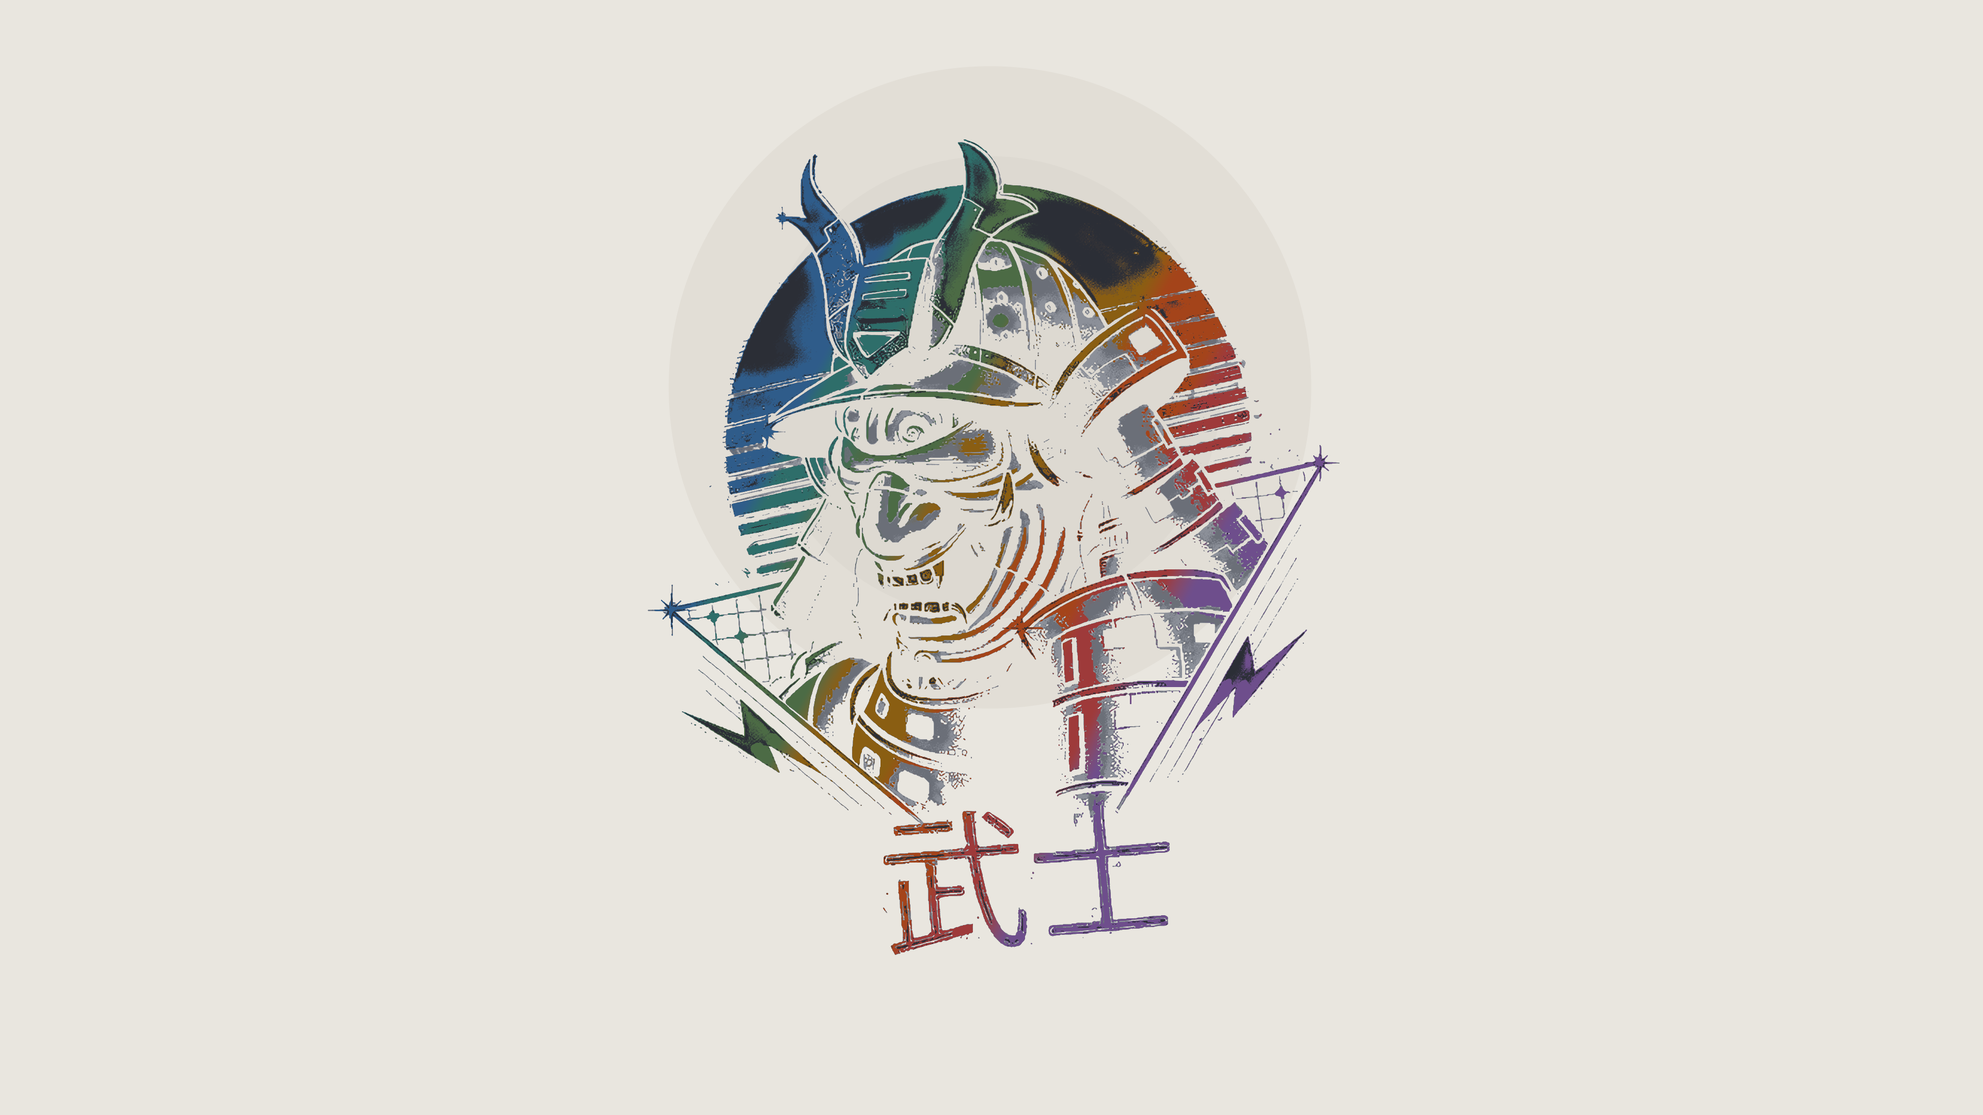
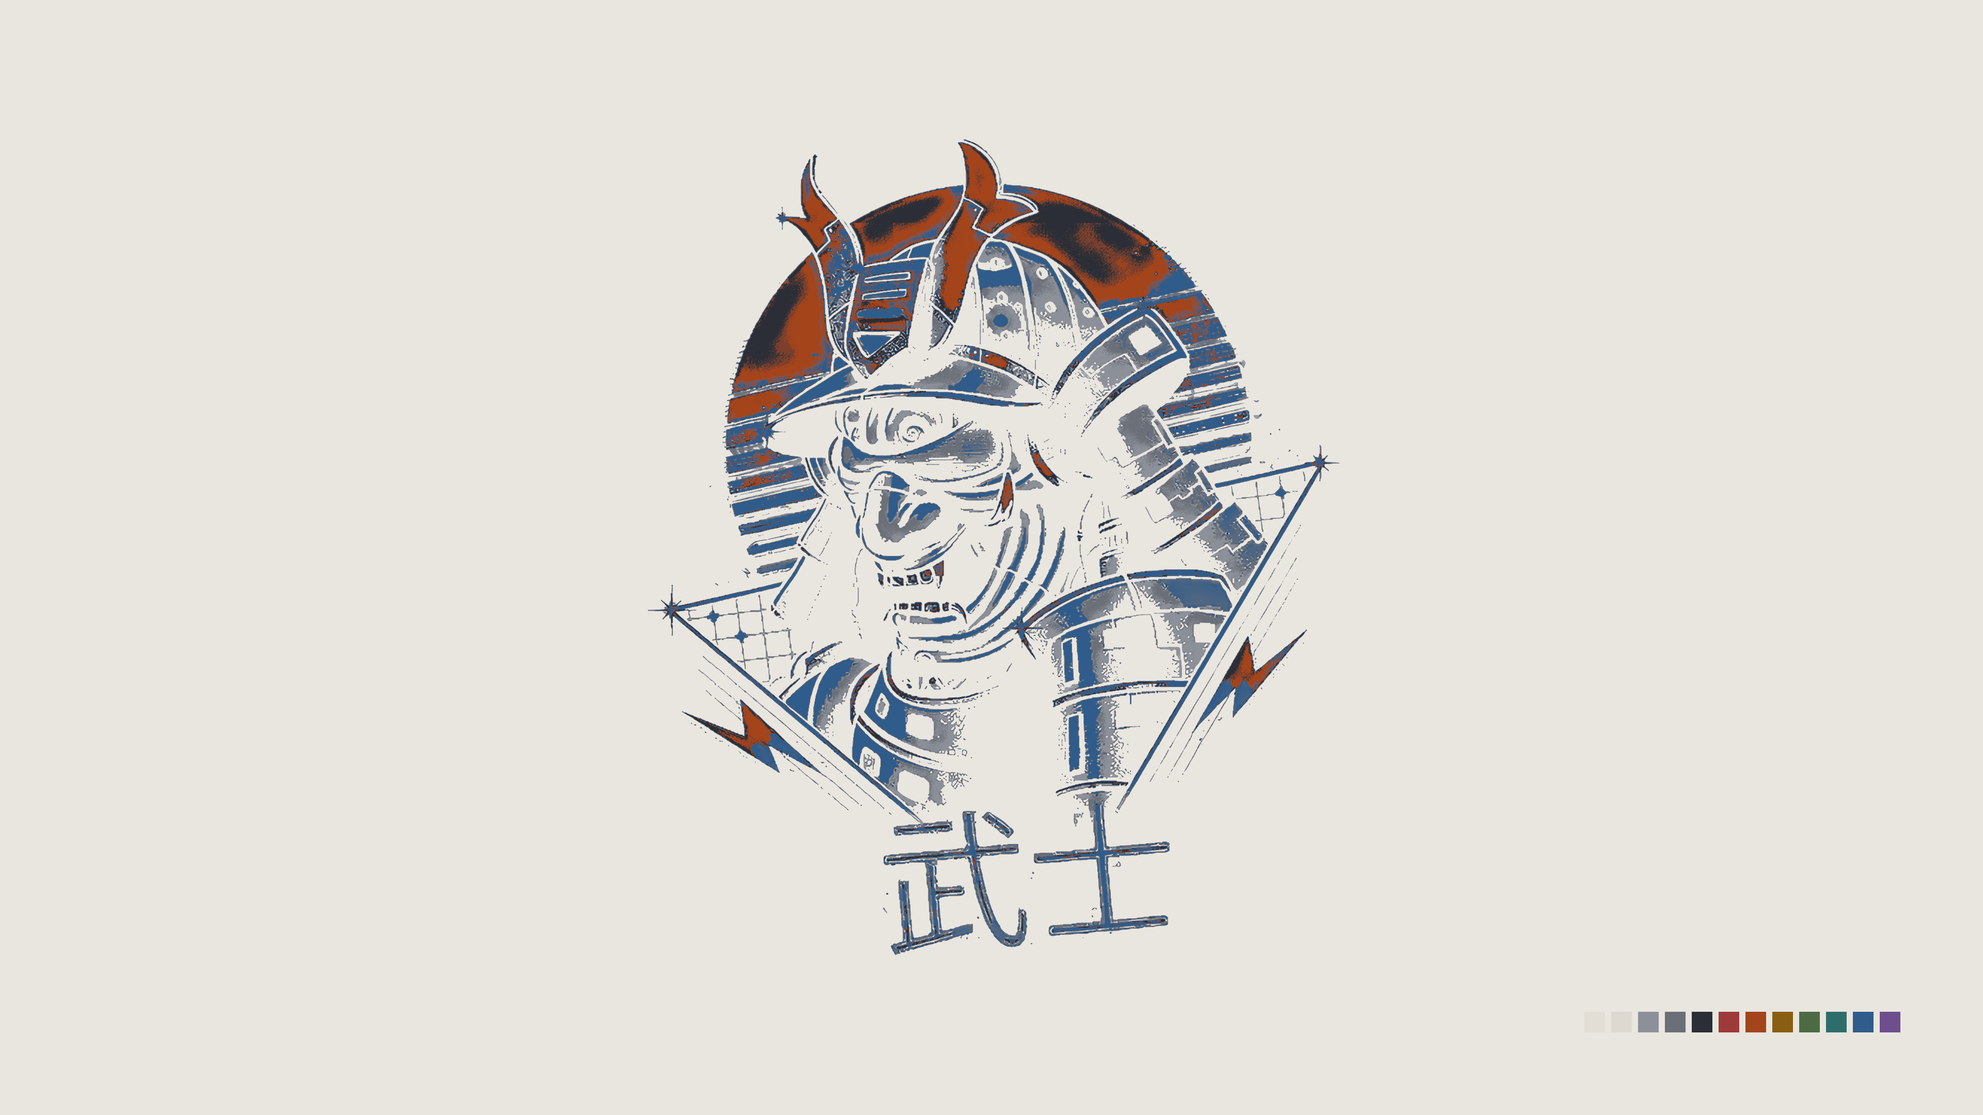
backgrounds: blue-black recolour and five Catppuccin Mocha picks
The swept seven-colour recolour read as a rainbow. The five subjects now
keep the palette's own shape: blue-black paper, comment and muted
shadows, a slate blue body, ember only on the brightest strokes, text on
the strongest lines. A small swatch strip in the bottom right carries
whatever the picture does not use, so every wallpaper still holds all
13 palette colours as exact hex.

Five more wallpapers are the pick of atraxsrc/catppuccin-mocha-walls
(minimalist-black-hole, black-hole, yohoho, puffy-stars, lit-up-sky),
chosen for being mostly night with a small glow. scripts/mocha.py moves
each Mocha colour onto its role here in OKLab, every warm one onto the
ember family so a sunset stays one glow; the day half turns the
neutrals over so the night sky becomes the stone window.

Claude-Session: https://claude.ai/code/session_01PiNkwWbMkiGMkdhnqFjUyB

Changed region(s): [[0.3438, 0.1241, 0.6875, 0.8685], [0.8125, 0.8995, 0.9688, 0.9306], [0.3438, 0.5273, 0.375, 0.5894]]

diff --git a/scripts/wallpaper.py b/scripts/wallpaper.py
@@ -1,30 +1,33 @@
 #!/usr/bin/env python3
-"""Recolour one wallpaper with every colour of the repo palette.
+"""Recolour one wallpaper with the repo palette, every colour included.
 
-    python3 scripts/wallpaper.py night GREY.png OUT.png
-    python3 scripts/wallpaper.py day   GREY.png OUT.png
-    python3 scripts/wallpaper.py night --v1 backgrounds/ember-eagle.png OUT.png
+    python3 scripts/wallpaper.py night [--accent NAME] GREY.png OUT.png
+    python3 scripts/wallpaper.py day   [--accent NAME] GREY.png OUT.png
+    python3 scripts/wallpaper.py night --v1 --accent Amber ember-eagle-v1.png OUT.png
 
 GREY is the cover-cropped grey render that scripts/wallpaper.sh prepares (light
 subject on dark for night, dark subject on light for day). --v1 instead reads
 a wallpaper made by the first, two-tone lookup and recovers its grey levels, so
 the shipped wallpapers can be redone without the cool-wallpapers sources.
 
-The palette is read from backgrounds/*.gpl. Each pixel gets an ink level, 0 on
-the paper and 1 on the strongest line, and runs along one ramp of roles:
+The palette is read from backgrounds/*.gpl. The subject stays calm, as the
+palette asks: neutrals for the big shapes, one supporting colour (--accent,
+slate blue unless named) for the body, and ember small and loud near the top.
+Each pixel gets an ink level, 0 on the paper and 1 on the strongest line, and
+its rank inside the subject runs it along one ramp:
 
-    ink  0.00-0.20  window, flat, so the paper lands exactly on the window
-         0.20-0.46  comment, then muted (shadows and fine lines)
-         0.46-0.80  one of the seven colours (ember, moss, amber, brick,
-                    slate blue, heather, verdigris), held flat
-         0.80-1.00  text (fog by night, ink by day) on the strongest lines
+    window   the paper, flat, so it lands exactly on the window colour
+    comment  faint shading
+    muted    shadows and fine lines
+    accent   the body of the subject
+    ember    the brightest (night) or boldest (day) strokes
+    text     the strongest lines
 
-Which of the seven a pixel takes depends on where it sits: the subject is
-swept on a diagonal and split into seven bands of equal ink, so each colour
-covers about a seventh of the subject. Behind the subject sits a stepped disc
-in pane and container, kept clear of the corners so they stay on the window.
+The colours the subject does not use sit in a small swatch strip in the
+bottom right, one square per palette colour, on a plate of window colour.
 Blends between roles are mixed in OKLab; every role holds a flat band, so
-each palette colour is present as its exact hex.
+each palette colour is present as its exact hex, and the corners stay on
+the window.
 """
 import glob
 import os
@@ -34,8 +37,7 @@ import numpy as np
 from PIL import Image
 
 W, H = 3840, 2160
-HUES = ["Slate blue", "Verdigris", "Moss", "Amber", "Ember", "Brick", "Heather"]
-SWEEP = np.deg2rad(28)  # top left to bottom right
+ACCENTS = ["Brick", "Ember", "Amber", "Moss", "Verdigris", "Slate blue", "Heather"]
 
 # The first lookup of scripts/wallpaper.sh, as (rows, from, to); used by --v1.
 V1 = {
@@ -123,19 +125,6 @@ def ink_from_v1(mode, path):
     return g if mode == "night" else 1 - g
 
 
-def densest(mask, step=16):
-    """Centroid of the mask weighted by the square of its local density (a box
-    a sixth of the height wide), so solid shapes count and thin lines barely do."""
-    h, w = H // step, W // step
-    small = mask[:h * step, :w * step].reshape(h, step, w, step).mean((1, 3))
-    k = H // 6 // step
-    c = np.pad(small, ((k // 2 + 1, k - k // 2), (k // 2 + 1, k - k // 2))).cumsum(0).cumsum(1)
-    box = (c[k:, k:] - c[:-k, k:] - c[k:, :-k] + c[:-k, :-k])[:h, :w] / k ** 2
-    wt = small * box ** 2
-    yy, xx = np.mgrid[0:h, 0:w]
-    return ((xx * wt).sum() / wt.sum() + 0.5) * step, ((yy * wt).sum() / wt.sum() + 0.5) * step
-
-
 def rank(ink, subject):
     """Spread the subject's ink evenly over 0.2-1 by its own distribution (ties
     take their middle rank), so a faint render and a bold one both run the whole
@@ -146,66 +135,50 @@ def rank(ink, subject):
     return np.where(subject, 0.2 + 0.8 * mid[bins], ink).astype(np.float32)
 
 
-def render(mode, ink, pal):
-    lab = {k: to_lab(v) for k, v in pal.items()}
-    window = lab["Window"]
-    # outer disc is whichever of pane / container sits nearer the window
-    near, far = sorted(["Pane", "Container"], key=lambda k: abs(lab[k][0] - window[0]))
+def strip(img, pal, size=40, gap=12, pad=28, margin=160):
+    """One square per palette colour but the window, bottom right: neutrals from
+    the window out, then the colours round the wheel. Draws on img in place."""
+    window = pal["Window"]
+    neutrals = sorted(["Pane", "Container", "Comment", "Muted", "Text"],
+                      key=lambda k: np.abs(pal[k] - window).sum())
+    names = neutrals + ACCENTS
+    w = len(names) * size + (len(names) - 1) * gap
+    x0, y0 = W - margin - w, H - margin - size
+    img[y0 - pad:y0 + size + pad, x0 - pad:x0 + w + pad] = window
+    for n, k in enumerate(names):
+        x = x0 + n * (size + gap)
+        img[y0:y0 + size, x:x + size] = pal[k]
 
-    ys, xs = np.mgrid[0:H, 0:W].astype(np.float32)
+
+def render(mode, ink, pal, accent="Slate blue"):
+    lab = {k: to_lab(v) for k, v in pal.items()}
     subject = ink > 0.2
-    ink = rank(ink, subject)
     if not subject.any():
         sys.exit("nothing above the paper: is the mode right?")
+    ink = rank(ink, subject)
 
-    # stepped disc behind the subject: centred where the subject is densest
-    # (so thin lines trailing off do not pull it away), wide enough for most
-    # of it, its rim kept 120 px inside every edge where the room allows
-    cx, cy = densest(subject)
-    dist = np.hypot(xs - cx, ys - cy)
-    r = 1.15 * np.percentile(dist[subject], 70)
-    r = min(r, cx - 120, W - 120 - cx, cy - 120, H - 120 - cy, 0.46 * H)
-    r = max(r, 0.16 * H)
-    outer = np.clip(r - dist + 0.5, 0, 1)[..., None]
-    inner = np.clip(0.72 * r - dist + 0.5, 0, 1)[..., None]
-    base = window + (lab[near] - window) * outer
-    base = base + (lab[far] - base) * inner
-
-    # colour sweep: equal-ink bands of the seven colours along a diagonal
-    proj = xs * np.cos(SWEEP) + ys * np.sin(SWEEP)
-    hot = (ink > 0.48) & (ink < 0.84)
-    pts = proj[hot] if hot.sum() > 1000 else proj[subject]
-    q = np.quantile(pts, np.linspace(0, 1, 513))
-    q = np.maximum.accumulate(q + np.arange(513) * 1e-4)
-    t = np.interp(proj, q, np.linspace(0, 1, 513))
-    s = np.clip(t * len(HUES) - 0.5, 0, len(HUES) - 1)
-    i = np.minimum(s.astype(np.int32), len(HUES) - 2)
-    f = smooth((s - i - 0.3) / 0.4)[..., None]
-    hues = np.array([lab[k] for k in HUES])
-    hue = hues[i] + (hues[i + 1] - hues[i]) * f
-
-    keys = [(0.20, base), (0.26, lab["Comment"]), (0.31, lab["Comment"]),
-            (0.37, lab["Muted"]), (0.42, lab["Muted"]), (0.48, hue),
-            (0.84, hue), (0.92, lab["Text"])]
-    out = np.broadcast_to(base, (H, W, 3)).copy()
+    keys = [(0.20, "Window"), (0.28, "Comment"), (0.34, "Comment"),
+            (0.42, "Muted"), (0.50, "Muted"), (0.60, accent),
+            (0.76, accent), (0.82, "Ember"), (0.88, "Ember"), (0.95, "Text")]
+    out = np.broadcast_to(lab["Window"], (H, W, 3)).copy()
     for (a, ca), (b, cb) in zip(keys, keys[1:]):
         m = ink > a
         w = smooth((ink[m] - a) / (b - a))[:, None]
-        ca = ca[m] if np.ndim(ca) == 3 else ca
-        cb = cb[m] if np.ndim(cb) == 3 else cb
-        out[m] = ca + (cb - ca) * w
-    return from_lab(out.reshape(-1, 3)).reshape(H, W, 3)
+        out[m] = lab[ca] + (lab[cb] - lab[ca]) * w
+    img = from_lab(out.reshape(-1, 3)).reshape(H, W, 3)
+    strip(img, pal)
+    return img
 
 
-def check(img, pal, path):
+def check(img, pal, path, corners=True):
     flat = img.reshape(-1, 3)
     missing = []
     for k, v in pal.items():
         n = int(np.all(flat == v.astype(np.uint8), axis=1).sum())
         if n < 500:
             missing.append(f"{k} ({n} px)")
-    corners = [img[0, 0], img[0, -1], img[-1, 0], img[-1, -1]]
-    if any((c != pal["Window"]).any() for c in corners):
+    edge = [img[0, 0], img[0, -1], img[-1, 0], img[-1, -1]]
+    if corners and any((c != pal["Window"]).any() for c in edge):
         missing.append("window corners")
     if missing:
         sys.exit(f"{path}: short of " + ", ".join(missing))
@@ -214,13 +187,18 @@ def check(img, pal, path):
 def main(argv):
     v1 = "--v1" in argv
     argv = [a for a in argv if a != "--v1"]
-    if len(argv) != 3 or argv[0] not in ("night", "day"):
-        sys.exit(__doc__.split("\n\n")[1])
+    accent = "Slate blue"
+    if "--accent" in argv:
+        i = argv.index("--accent")
+        accent = argv[i + 1]
+        del argv[i:i + 2]
+    if len(argv) != 3 or argv[0] not in ("night", "day") or accent not in ACCENTS:
+        sys.exit(__doc__.split("\n\n")[1] + "\n\naccent: " + ", ".join(ACCENTS))
     mode, src, out = argv
     root = os.path.dirname(os.path.dirname(os.path.abspath(__file__)))
     pal = palette(root)
     ink = (ink_from_v1 if v1 else ink_from_grey)(mode, src)
-    img = render(mode, ink, pal)
+    img = render(mode, ink, pal, accent)
     check(img, pal, out)
     Image.fromarray(img).save(out, optimize=True)
     print(out)

diff --git a/scripts/mocha.py b/scripts/mocha.py
@@ -1,0 +1,114 @@
+#!/usr/bin/env python3
+"""Recolour a Catppuccin Mocha wallpaper into this repo's palette.
+
+    python3 scripts/mocha.py night SOURCE OUT.png
+    python3 scripts/mocha.py day   SOURCE OUT.png
+
+SOURCE is a wallpaper already drawn in Catppuccin Mocha, such as one from
+github.com/atraxsrc/catppuccin-mocha-walls. Each of the 26 Mocha colours has a
+role here, and every pixel moves by the inverse-distance blend (in OKLab) of
+the moves its nearest Mocha colours make, so texture and soft edges survive
+and a pixel sitting on a Mocha colour lands exactly on its role:
+
+    mantle, crust      window (the paper)
+    base, surface0     pane, container
+    surface1-text      comment, muted, text, with the steps between
+    maroon, peach      ember          flamingo, rosewater  ember toward text
+    red                brick          yellow       amber
+    green              moss           teal, sky    verdigris
+    blue, sapphire     slate blue     mauve, pink, lavender  heather
+
+The warm Mocha colours all go to the ember family, so a pink-to-yellow sunset
+stays one glow instead of breaking into bands. The pictures worth recolouring
+are the ones that are mostly night with a small glow: the blue-black does the
+work and ember stays small and loud, as the palette asks.
+
+night keeps Mocha's light order. day turns the neutrals over, so the dark
+paper becomes the stone window and the lightest strokes become ink, and the
+accents take Ember Day's darker values.
+
+The result is cover-cropped to 3840x2160 and gets the palette strip of
+scripts/wallpaper.py, so every palette colour is present as its exact hex.
+"""
+import os
+import sys
+
+import numpy as np
+from PIL import Image
+
+sys.path.insert(0, os.path.dirname(os.path.abspath(__file__)))
+from wallpaper import H, W, check, from_lab, palette, strip, to_lab  # noqa: E402
+
+MOCHA = {
+    "rosewater": "f5e0dc", "flamingo": "f2cdcd", "pink": "f5c2e7", "mauve": "cba6f7",
+    "red": "f38ba8", "maroon": "eba0ac", "peach": "fab387", "yellow": "f9e2af",
+    "green": "a6e3a1", "teal": "94e2d5", "sky": "89dceb", "sapphire": "74c7ec",
+    "blue": "89b4fa", "lavender": "b4befe", "text": "cdd6f4", "subtext1": "bac2de",
+    "subtext0": "a6adc8", "overlay2": "9399b2", "overlay1": "7f849c", "overlay0": "6c7086",
+    "surface2": "585b70", "surface1": "45475a", "surface0": "313244", "base": "1e1e2e",
+    "mantle": "181825", "crust": "11111b",
+}
+
+
+def roles(lab, mode):
+    """Target OKLab colour for each Mocha name: a palette role, or a step
+    between two roles written (a, b, t)."""
+    mix = lambda a, b, t: lab[a] + (lab[b] - lab[a]) * t  # noqa: E731
+    beyond = mix("Window", "Pane", -1.0)  # one step past the window, for crust
+    near, far = sorted(["Pane", "Container"], key=lambda k: abs(lab[k][0] - lab["Window"][0]))
+    return {
+        "crust": beyond, "mantle": lab["Window"], "base": lab[near], "surface0": lab[far],
+        "surface1": mix(far, "Comment", 0.5), "surface2": lab["Comment"],
+        "overlay0": mix("Comment", "Muted", 0.5), "overlay1": lab["Muted"],
+        "overlay2": mix("Muted", "Text", 0.25), "subtext0": mix("Muted", "Text", 0.5),
+        "subtext1": mix("Muted", "Text", 0.75), "text": lab["Text"],
+        "maroon": lab["Ember"], "peach": lab["Ember"], "red": lab["Brick"],
+        "yellow": lab["Amber"], "green": lab["Moss"], "teal": lab["Verdigris"],
+        "sky": lab["Verdigris"], "blue": lab["Slate blue"], "sapphire": lab["Slate blue"],
+        "mauve": lab["Heather"], "pink": lab["Heather"], "lavender": mix("Heather", "Text", 0.3),
+        "flamingo": mix("Ember", "Text", 0.35), "rosewater": mix("Ember", "Text", 0.65),
+    }
+
+
+def recolour(img, pal, mode, power=4.0):
+    lab = {k: to_lab(v) for k, v in pal.items()}
+    tgt = roles(lab, mode)
+    src = np.array([to_lab(np.array([int(h[i:i + 2], 16) for i in (0, 2, 4)], float)) for h in MOCHA.values()])
+    move = np.array([tgt[k] for k in MOCHA]) - src
+
+    flat = img.reshape(-1, 3)
+    keys = (flat[:, 0].astype(np.int32) << 16) | (flat[:, 1].astype(np.int32) << 8) | flat[:, 2]
+    uniq, inv = np.unique(keys, return_inverse=True)
+    ucol = np.stack([uniq >> 16, (uniq >> 8) & 255, uniq & 255], 1).astype(np.float64)
+    out = np.empty((len(ucol), 3))
+    for i in range(0, len(ucol), 200000):
+        c = to_lab(ucol[i:i + 200000])
+        d = np.sqrt(((c[:, None, :] - src[None]) ** 2).sum(-1))
+        w = 1 / (d ** power + 1e-12)
+        out[i:i + 200000] = c + (w[..., None] * move[None]).sum(1) / w.sum(1, keepdims=True)
+    return from_lab(out)[inv].reshape(img.shape)
+
+
+def cover(path):
+    im = Image.open(path).convert("RGB")
+    s = max(W / im.width, H / im.height)
+    im = im.resize((round(im.width * s), round(im.height * s)), Image.LANCZOS)
+    x, y = (im.width - W) // 2, (im.height - H) // 2
+    return np.asarray(im.crop((x, y, x + W, y + H)))
+
+
+def main(argv):
+    if len(argv) != 3 or argv[0] not in ("night", "day"):
+        sys.exit(__doc__.split("\n\n")[1])
+    mode, src, out = argv
+    root = os.path.dirname(os.path.dirname(os.path.abspath(__file__)))
+    pal = palette(root)
+    img = recolour(cover(src), pal, mode)
+    strip(img, pal)
+    check(img, pal, out, corners=False)  # a painting keeps its own edges
+    Image.fromarray(img).save(out, optimize=True)
+    print(out)
+
+
+if __name__ == "__main__":
+    main(sys.argv[1:])

diff --git a/README.md b/README.md
@@ -93,7 +93,8 @@ Window hint `#A4441A`. Ratios per role are in `docs/showcase.md`, or run
 │   ├── update_system.sh         # nala + flatpak, dark ANSI for a light terminal
 │   ├── contrast.py              # palette contrast table, feeds the README
 │   ├── wallpaper.sh             # renders a wallpaper from any source image
-│   └── wallpaper.py             # maps its grey onto all 13 palette colours
+│   ├── wallpaper.py             # maps its grey onto the palette
+│   └── mocha.py                 # recolours a Catppuccin Mocha wallpaper to the palette
 ├── zsh
 │   ├── emberday.zsh             # LS_COLORS, highlighting colours, aliases, starship
 │   └── install.sh
@@ -101,7 +102,7 @@ Window hint `#A4441A`. Ratios per role are in `docs/showcase.md`, or run
 │   ├── cursors/                 # cursor preview
 │   ├── screenshot.png           # README screenshot
 │   └── wallpaper.png            # the astronaut on the bare desktop
-├── backgrounds/                 # five wallpapers, emberday-<subject>.png, and emberday.gpl
+├── backgrounds/                 # ten wallpapers, emberday-<subject>.png, and emberday.gpl
 ├── docs
 │   └── showcase.md              # the rice describing itself, for the Postilla pane of the screenshot
 ├── LICENSE
@@ -324,27 +325,30 @@ Restart open apps afterwards (Files caches icons per window).
 Add `--system` to install to `/usr/share/icons` instead, for every user and the
 login screen (asks for sudo); `--user` is the default.
 
-Five subjects rendered by `scripts/wallpaper.sh` from
-[cool-wallpapers](https://github.com/atraxsrc/cool-wallpapers), named `emberday-<subject>.png`
-in [`backgrounds/`](backgrounds/): astronaut (the one in the screenshot), samurai,
-geisha, city and the eagle; `emberday.gpl` sits beside them for GIMP work. Any other
-source renders with one command:
+Ten wallpapers in [`backgrounds/`](backgrounds/), named `emberday-<subject>.png`, with
+`emberday.gpl` beside them for GIMP work. Every one carries all 13 palette colours as
+their exact hex: whatever the picture does not use sits in a small swatch strip in
+the bottom right.
+
+Five subjects come from [cool-wallpapers](https://github.com/atraxsrc/cool-wallpapers),
+rendered by `scripts/wallpaper.sh`: astronaut (the one in the screenshot), samurai,
+geisha, city and the eagle. The grey of the source runs from the window through
+comment and muted shadows to a slate blue body, with ember only on the brightest
+strokes and text on the strongest lines. Any other source renders with one command:
 
 ```bash
 ./scripts/wallpaper.sh day path/to/source.png backgrounds/emberday-<subject>.png
 ```
 
-Every wallpaper carries all 13 palette colours, each as its exact hex: the paper is
-the window, a stepped disc of pane and container sits behind the subject, comment
-and muted draw the shadows, the seven colours (slate blue, verdigris, moss, amber,
-ember, brick, heather) sweep across the subject on a diagonal in bands of equal
-area, and text takes the strongest lines. `scripts/wallpaper.py` reads the colours
-from `backgrounds/emberday.gpl`, refuses to write a wallpaper short of any of them or
-whose corners are off the window, and with `--v1` re-renders a wallpaper made by the
-first two-tone lookup without its source:
+Five more are the pick of [catppuccin-mocha-walls](https://github.com/atraxsrc/catppuccin-mocha-walls),
+recoloured by `scripts/mocha.py`: minimalist-black-hole, black-hole, yohoho,
+puffy-stars and lit-up-sky. Each Mocha colour moves onto its role here (mantle to the
+window, the surfaces and overlays to the neutrals, every warm colour to the ember
+family, the blues to slate blue), so the picture keeps its own light and soft edges.
+The day half turns the neutrals over, so the night sky becomes the stone window:
 
 ```bash
-python3 scripts/wallpaper.py day --v1 backgrounds/emberday-<subject>.png backgrounds/emberday-<subject>.png
+python3 scripts/mocha.py day path/to/mocha-wallpaper.png backgrounds/emberday-<subject>.png
 ```
 
 Settings → Wallpaper → Add image → a file from `backgrounds/`.
@@ -410,6 +414,8 @@ mkdir -p ~/.config/btop/themes && cp btop/EmberDay.theme ~/.config/btop/themes/
 ## Credits
 
 - Palette: Ember, designed for this pair (see `docs/superpowers/specs/2026-10-14-ember-design.md` in cosmic-ember-theme).
+- Mocha wallpapers: [catppuccin-mocha-walls](https://github.com/atraxsrc/catppuccin-mocha-walls),
+  a collection whose pictures belong to their original artists.
 - Subjects: [cool-wallpapers](https://github.com/atraxsrc/cool-wallpapers); the eagle from
   [omarchy-thegreek-theme](https://github.com/HANCORE-linux/omarchy-thegreek-theme) (MIT).
 - Templates: [cosmic-tokyonight-theme](https://github.com/atraxsrc/cosmic-tokyonight-theme) and
